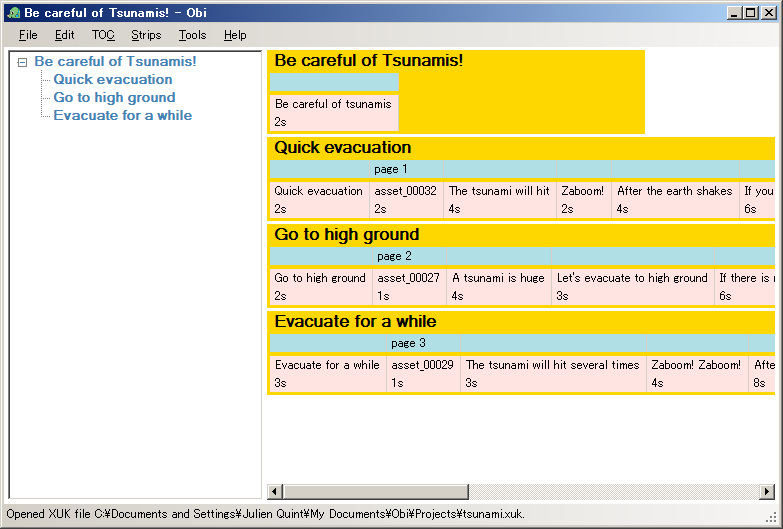
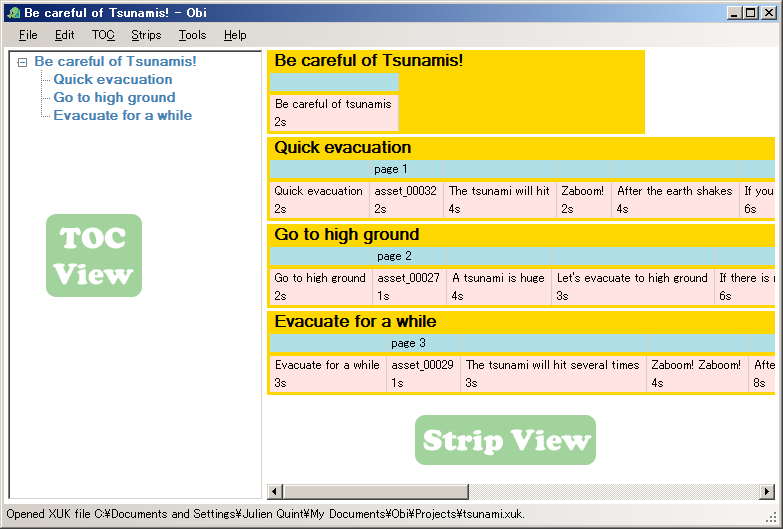
Updated manual and screenshots

Changed region(s): [[0.5211, 0.7864, 0.7663, 0.8771], [0.0613, 0.3932, 0.1839, 0.5747]]

diff --git a/Obi/Obi/help_en.html b/Obi/Obi/help_en.html
@@ -31,6 +31,8 @@
       <img style="width:128px;height:128px" alt="" src="../../images/obird256.png"/>
 </h1>
     
+<p>This is the manual for Obi v0.5 (18th August 2005.)</p>
+
 <h2 id="toc">Obi Manual - Table of Contents</h2>
 <ul class="toc">
 <li><a href="#getstart">Getting started</a>
@@ -73,15 +75,15 @@
   <!-- <h3>What is Obi?</h3> -->
      
   <h3>Obi Online - Community Help and Support</h3>
-  <p>For further help and support on using Obi, please visit <a href="http://urakawa.sourceforge.net/obi">Obi online</a>.</p>
+  <p>For further help and support on using Obi, please visit <a href="http://urakawa.sourceforge.net/obi">Obi online</a> and the <a href="http://urakawa.sourceforge.net">Urakawa project</a> web site.</p>
 
 <h2 id="getstart">Getting Started</h2>
   <p>This section of the Obi manual contains a quicktrack introduction on how to use Obi. A more detailed description of Obi features and functions is available in the <a href="#ctrls">details section</a>.</p>
   
   <h3 id="ovw_main">Main Window Overview</h3>
     <p>
-      The main window of Obi (which is the one that opens when you start Obi) contains two parallell views of the project; the <acronym title="Table of Contents">TOC</acronym> View at the left part of the main window, and the Strip View at the right part of the main window.
-      <br/>Before we start our project, lets try to understand what these views have in common, and where they differ.
+    The main window of Obi (which is the one that opens when you start Obi) contains two parallel views of the project; the <acronym title="Table of Contents">TOC</acronym> View on the left side of the main window, and the Strip View on the right side of the main window.
+      <br/>Before we start our project, let's try to understand what these views have in common, and where they differ.
       <br/><br/>    
     </p>
     <p><img src="../../images/manual_mainwindow.png" alt="the main window, with the TOC tree view at the left, and the strip view at the right" /></p>
@@ -89,7 +91,7 @@
     <h4 id="ovw_toc">The TOC View</h4>
     <p>The TOC View can be understood as a Table of Contents for the project being recorded.</p>
     <p>Using the TOC View you can navigate in the major structural elements of the project. Typically, this means that you move your current position to a certain section (or chapter if you will) of the DAISY <a href='#gls_dtb'>DTB</a> being recorded.</p>
-    <p>The TOC View is a tree, which means that a section (a node in the tree) can have children. In DTB terminology, this feature is used to describe that a certain section is a subsection (or a child) of another section.</p> 
+    <p>The TOC View is a tree, which means that a section (a node in the tree) can have children. In DTB terminology, this feature is used to describe that a certain section is a sub-section (or a child) of another section.</p> 
     <p>The TOC View also allows section editing, such as adding and removing sections.</p>
     
     <h4 id="ovw_strip">The Strip View</h4>
@@ -109,7 +111,7 @@
   <h3 id="ovw_new">Create a New Project</h3>
   <p>Select New Project from the File Menu.</p>
   <p>A dialog will appear that asks you to set the title of the project, 
-  and where on your computers harddrive to store project data.  
+  and where on your computer's hard drive to store project data.  
   </p>
   <p><img src="../../images/manual_newproject.png" alt="the new project dialog" /></p>
   
@@ -163,6 +165,11 @@
       <div class="hd">Obird suggestion</div>   
        <p>Saving your project at regular intervals during a long recording session is a good idea!</p>
     </div>
+    <p><strong>Note:</strong> the <code>save project as</code> command makes
+    a new copy of your project and audio files. When you select this command,
+    the project in its current state is saved in a different location and/or
+    under a different name, but you are still editing the same project. You
+    may think of this as a backup command.</p>
 
   
   <!-- <h3>Please enjoy the DAISY/NISO DTB</h3> 
@@ -180,25 +187,25 @@
     <dt>Add sub-section</dt>
     <dd>Adds a new section as a child of the section that is currently selected.</dd>
     <dt>Cut section</dt>
-    <dd>Cuts the currently selected section and puts it in the clipboard</dd>
+    <dd>Cuts the currently selected section and puts it in the clipboard.</dd>
     <dt>Copy section</dt>
     <dd>Copies the currently selected section and puts the copy in the clipboard</dd>
     <dt>Paste section</dt>
     <dd>Pastes a section currently in the clipboard, following the section that is currently selected.</dd>
     <dt>Delete section</dt>
-    <dd>Deletes the currently selected section</dd>
+    <dd>Deletes the currently selected section.</dd>
     <dt>Rename section</dt>
     <dd>Enables renaming of the currently selected section. After invoking rename, type the new name.</dd>
     <dt>Move section up/down</dt>
     <dd>Moves the currently selected section up or down in relation to its sibling sections. This feature is used to <em>reorder</em> the main structural units (chapters) of the DTB.</dd>
     <dt>Move section in/out</dt>
-    <dd>Changes the depth of the currently selected section. "Move in" effectively means "make subsection".</dd>
+    <dd>Changes the depth of the currently selected section. "Move in" effectively means "make sub-section".</dd>
     </dl>
     
     <h4>Other functions in TOC View</h4>
     <dl>
     <dt>Show in Strip View</dt>    
-    <dd>Moves the cursor (and focus) to the strip in the strip view that corresponds to the currently selected section in the TOC View</dd>
+    <dd>Moves the cursor (and focus) to the strip in the strip view that corresponds to the currently selected section in the TOC View.</dd>
     </dl>
     
     <h3 id="ctrl_stripview">Main Window - Strip View</h3>
@@ -209,7 +216,7 @@
     <dt>Rename strip</dt>
     <dd>Enables renaming of the currently selected strip. After invoking rename, type the new name.</dd>
     <dt>Delete strip</dt>
-    <dd>Deletes the currently selected strip</dd>
+    <dd>Deletes the currently selected strip.</dd>
     <dt>Move strip up/down</dt>
     <dd>Moves the currently selected strip up or down in relation to its sibling strips. This feature is used to <em>reorder</em> the main structural units (chapters) of the DTB.</dd>
     </dl>
@@ -217,19 +224,19 @@
     <h4 id="ctrl_blockediting">Block editing</h4>
     <dl>
     <dt>Edit audio block label</dt>
-    <dd>Edit the textual label of the currently selected audio block</dd>
+    <dd>Edit the textual label of the currently selected audio block.</dd>
     <dt>Delete audio block</dt>
-    <dd>Delete the currently selected audio block</dd>
+    <dd>Delete the currently selected audio block.</dd>
     <dt>Split audio block</dt>
-    <dd>Opens the <a href='#ctrl_split'>split dialog</a></dd>
+    <dd>Opens the <a href='#ctrl_split'>split dialog</a>.</dd>
     <dt>Merge with next audio block</dt>
     <dd>Merges the currently selected audio block with the audio block that follows it. The result is that two audio blocks turns into one.</dd>
     <dt>Move audio block forward/backward</dt>
     <dd>Moves the currently selected audio block in relation to its sibling blocks. This will reorder the sequence of audio blocks within a strip.</dd>
     <dt>Cut audio block</dt>
-    <dd>Cuts the currently selected audio block and puts it in the clipboard</dd>
+    <dd>Cuts the currently selected audio block and puts it in the clipboard.</dd>
     <dt>Copy audio block</dt>
-    <dd>Copies the currently selected audio block and puts the copy in the clipboard</dd>
+    <dd>Copies the currently selected audio block and puts the copy in the clipboard.</dd>
     <dt>Paste audio block</dt>
     <dd>Pastes an audio block currently in the clipboard, following the audio block that is currently selected.</dd>
     </dl>
@@ -239,29 +246,36 @@
     <dt>Record audio</dt>
     <dd>Opens the <a href='#ctrl_record'>recording dialog</a></dd>
     <dt>Import audio</dt>
-    <dd>Opens the import audio dialog</dd>
+    <dd>Opens the import audio dialog.</dd>
     <dt>Play audio block</dt>
-    <dd>Opens the play dialog, and plays the currently selected audio block</dd>
+    <dd>Opens the play dialog, and plays the currently selected audio block.</dd>
     <dt>Show in TOC View</dt>
-    <dd>Moves the cursor (and focus) to the section in the TOC View that corresponds to the currently selected strip in the Strip View</dd>
+    <dd>Moves the cursor (and focus) to the section in the TOC View that corresponds to the currently selected strip in the Strip View.</dd>
+    <dt>Set page label</dt>
+    <dd>A page label usually indicates a page number that can be inserted just
+    like in a print book. This is useful to include if you record a book that
+    exists in print. The page label appears on top of the audio block which
+    is usually the audio counterpart to the label.</dd>
+    <dt>Remove page label</dt>
+    <dd>Removes page label that was previously set.</dd>
     </dl>
     
     <h3 id="ctrl_record">Record Dialog</h3>
     <p>As the record dialog opens, Obi is already listening to the input device.</p>
     <dl>
     <dt>Record</dt>
-    <dd>Start the recording</dd>
+    <dd>Start the recording.</dd>
     <dt>Stop</dt>
     <dd>Stop the recording and close the dialog.</dd>
     <dt>Phrase marker</dt>
-    <dd>Create a new Audio Block. This feature can be used during recording (i.e. without pressing stop)</dd>
+    <dd>Create a new Audio Block. This feature can be used during recording (<em>i.e.</em> without pressing stop.)</dd>
     </dl>
     
     <h3 id="ctrl_play">Play Dialog</h3>
     <p>When the play dialog opens, playback will start automatically.</p>
     <dl>
     <dt>pause/play</dt>
-    <dd>Pauses the playback, and rests at the current position. Pressing the same button again will resume playback</dd>
+    <dd>Pauses the playback, and rests at the current position. Pressing the same button again will resume playback.</dd>
     <dt>stop</dt>
     <dd>Stops playback and closes the play dialog.</dd>
     </dl>
@@ -276,28 +290,28 @@
     <dt>back</dt>
     <dd>Go back to the current split position, and play from that position</dd>
     <dt>play/pause</dt>
-    <dd>Play the entire audio block</dd>
+    <dd>Play the entire audio block.</dd>
     <dt>fast rewind</dt>
-    <dd>Move backward in time a large step</dd>
+    <dd>Move backward in time a large step.</dd>
     <dt>fast forward</dt>
-    <dd>Move forward in time a large step</dd>
+    <dd>Move forward in time a large step.</dd>
     <dt>fine rewind</dt>
-    <dd>Move backward in time a small step</dd>
+    <dd>Move backward in time a small step.</dd>
     <dt>fine forward</dt>
-    <dd>Move forward in time a small step</dd>
+    <dd>Move forward in time a small step.</dd>
     <dt>current time</dt>
-    <dd>Displays the current time position in the audio block</dd>
+    <dd>Displays the current time position in the audio block.</dd>
     <dt>split time</dt>
-    <dd>Displays the split time position in the audio block</dd>
+    <dd>Displays the split time position in the audio block.</dd>
     <dt>split</dt>
-    <dd>Performs the split operation and exits the dialog</dd>
+    <dd>Performs the split operation and exits the dialog.</dd>
     <dt>stop</dt>
-    <dd>Cancels the split operation and exists the dialog</dd>
+    <dd>Cancels the split operation and exists the dialog.</dd>
     </dl>
 
   <h3 id="ctrl_metadata">Metadata Dialog</h3>
   <p>The metadata dialog allows editing of bibliographic metadata to be associated with the project.<br/> 
-  It is strongly suggested that you take the time to fill these fields in properly.</p>
+  It is strongly suggested that you take the time to fill in these fields in properly.</p>
   
   <h4>Metadata Dialog fields</h4>  
   <dl>
@@ -330,9 +344,9 @@
   <h4>Audio Preferences fields</h4>
   <dl>
   <dt>Input device name</dt>
-  <dd>Set the audio device to use for recording. This is the same as selecting a <em>soundcard input port</em></dd>
+  <dd>Set the audio device to use for recording. This is the same as selecting a <em>soundcard input port</em>.</dd>
   <dt>Output device name</dt>
-  <dd>Set the audio device to use for playback. This is the same as selecting a <em>soundcard output port</em></dd>
+  <dd>Set the audio device to use for playback. This is the same as selecting a <em>soundcard output port</em>.</dd>
   <dt>Default sample rate</dt>
   <dd>Select the sample rate to use for recording. This field defaults to <code>44100</code>, and normally, you can leave it at that. Under some circumstances (such as a very large book being recorded) you may want to change this setting to <code>22050</code>.</dd>
   <dt>Default channels</dt>
@@ -364,11 +378,11 @@
   <h4>User profile fields</h4>
   <dl>
   <dt>Full name</dt>
-  <dd>Name of user</dd>
+  <dd>Name of user.</dd>
   <dt>Organisation</dt>
-  <dd>Organisation of the user</dd>
+  <dd>Organisation of the user.</dd>
   <dt>Language</dt>
-  <dd>The language of the user (which is not necessarily the same as the <a href='#ctrl_metadata'>language of the DTB being recorded</a>!).</dd>
+  <dd>The language of the user (which is not necessarily the same as the <a href='#ctrl_metadata'>language of the DTB being recorded</a>!)</dd>
   </dl>
   <p><img src="../../images/manual_userprofile.png" alt="screenshot of the user profile dialog"/></p>
 
@@ -449,9 +463,9 @@ Project modification invocations by default use the CTRL modkey
 (unless there is a preferred Windows standard heritage key, for example F2 = rename, DEL = delete).
 View modifications (that change the GUI but not the project itself) by default use the ALT modkey
 -->
-<!-- JQ changed to pre so that we have a sort-of table layout (spacing is wrong though) and updated some shortcuts -->
-<!-- JQ would like that this table is always kept up-to-date when changes to shortcut keys/menu items are made -->
-<table width="75%">
+<p><strong>Note:</strong> these shortcuts may change in subsequent versions of
+Obi.</p>
+<table style="border-collapse:collapse" width="75%">
   <tr class="hd"><td colspan="2">Obi Main Menu</td></tr>
   <tr><td>File Menu</td>			<td><kbd>ALT,F</kbd></td></tr>
   <tr><td>Edit Menu</td>			<td><kbd>ALT,E</kbd></td></tr>
@@ -465,11 +479,12 @@ View modifications (that change the GUI but not the project itself) by default u
   <tr><td>Open Project</td>			<td><kbd>CTRL+O</kbd></td></tr>
   <tr><td>Save Project</td>			<td><kbd>CTRL+S</kbd></td></tr>
   <tr><td>Save Project as</td>			<td><kbd>CTRL+SHIFT+S</kbd></td></tr>
+  <tr><td>Discard Changes</td>  <td><kbd>CTRL+D</kbd></td></tr>
   <tr><td>Close Project</td>			<td><kbd>CTRL+W</kbd></td></tr>
   <tr><td>Exit</td>				<td><kbd>ALT+F4</kbd></td></tr>
   
   <tr class="hd"><td colspan="2">Dialogs and Windows</td></tr>
-  <tr><td>Open Record Dialog</td>		<td><kbd>ALT+R</kbd></td></tr> 
+  <tr><td>Open Record Dialog</td>		<td><kbd>CTRL+R</kbd></td></tr> 
   <tr><td>Open Help</td>			<td><kbd>F1</kbd></td></tr>
   <tr><td>Open Metadata dialog</td>		<td><kbd>ALT+M</kbd></td></tr>
   <tr><td>Open Audio Preferences</td>		<td><kbd>ALT+A</kbd></td></tr>   
@@ -490,7 +505,10 @@ View modifications (that change the GUI but not the project itself) by default u
     
   <tr class="hd"><td colspan="2">Section Editing</td></tr>
   <tr><td>Add section</td>			<td><kbd>CTRL+A</kbd></td></tr>
-  <tr><td>Add subsection</td>			<td><kbd>CTRL+B</kbd></td></tr>
+  <tr><td>Add sub-section</td>			<td><kbd>CTRL+B</kbd></td></tr>
+  <tr><td>Cut section</td>			<td><kbd>CTRL+SHIFT+X</kbd></td></tr>
+  <tr><td>Copy section</td>			<td><kbd>CTRL+SHIFT+C</kbd></td></tr>
+  <tr><td>Paset section</td>			<td><kbd>CTRL+SHIFT+V</kbd></td></tr>
   <tr><td>Delete section</td>			<td><kbd>DEL</kbd></td></tr>
   <tr><td>Rename section</td>			<td><kbd>F2</kbd></td></tr>
   <tr><td>Move Section Up</td>			<td><kbd>CTRL+SHIFT+UP</kbd></td></tr> <!-- (otherwise this conflicts with blocks.) -->
@@ -501,30 +519,28 @@ View modifications (that change the GUI but not the project itself) by default u
   <tr class="hd"><td colspan="2">Strip Editing</td></tr>
   <tr><td>Add strip</td>			<td><kbd>CTRL+A</kbd></td></tr>
   <tr><td>Rename strip</td>			<td><kbd>SHIFT+F2</kbd></td></tr> <!-- (because of selection ambivalence in strips) -->
-  <tr><td>Delete strip</td>			<td><kbd>SHIFT+Del</kbd></td></tr>
-  <tr><td>Move strip up</td>			<td><kbd>CTRL+SHIFT+Up</kbd></td></tr>
-  <tr><td>Move strip down</td>			<td><kbd>CTRL+SHIFT+Down</kbd></td></tr>
+  <tr><td>Delete strip</td>			<td><kbd>SHIFT+DEL</kbd></td></tr>
+  <tr><td>Move strip up</td>			<td><kbd>CTRL+SHIFT+UP</kbd></td></tr>
+  <tr><td>Move strip down</td>			<td><kbd>CTRL+SHIFT+DOWN</kbd></td></tr>
     
   <tr class="hd"><td colspan="2">Audio Editing</td></tr>
-  <tr><td>Play audio block</td>			<td><kbd>ALT+Space</kbd></td></tr> <!-- (should be space alone) -->
+  <tr><td>Import audio file</td>		<td><kbd>CTRL+I</kbd></td></tr>    
+  <tr><td>Edit audio block label</td>		<td><kbd>F2</kbd></td></tr>
   <tr><td>Cut audio block</td>			<td><kbd>CTRL+X</kbd></td></tr>
   <tr><td>Copy audio block</td>			<td><kbd>CTRL+C</kbd></td></tr>
+  <tr><td>Paset audio block</td>			<td><kbd>CTRL+V</kbd></td></tr>
   <tr><td>Split audio block</td>		<td><kbd>CTRL+P</kbd></td></tr>
-  <tr><td>Merge with next audio block</td>	<td><kbd>CTRL+M</kbd></td></tr>
   <tr><td>Delete audio block</td>		<td><kbd>DEL</kbd></td></tr>
-  <tr><td>Edit audio block label</td>		<td><kbd>F2</kbd></td></tr>
+  <tr><td>Merge with next audio block</td>	<td><kbd>CTRL+M</kbd></td></tr>
   <tr><td>Move audio block forward</td>		<td><kbd>CTRL+RIGHT</kbd></td></tr>
   <tr><td>Move audio block backward</td>	<td><kbd>CTRL+LEFT</kbd></td></tr>
-  <tr><td>Import audio file</td>		<td><kbd>CTRL+I</kbd></td></tr>    
-  
-</table>  
+  <tr><td>Play audio block</td>			<td><kbd>ALT+Space</kbd></td></tr> <!-- (should be space alone) -->
 
-<!--
-  Cut					CTRL+X
-  Copy 					CTRL+C
-  Paste					CTRL+V
-  Delete				Del
--->
+  <tr class="hd"><td colspan="2">Page Labels</td></tr>
+  <tr><td>Set page label</td>		<td><kbd>CTRL+F2</kbd></td></tr>
+  <tr><td>Remove page label</td>		<td><kbd>CTRL+DEL</kbd></td></tr>
+
+</table>  
 
   <p>
     <a href="http://validator.w3.org/check?uri=referer"><img

diff --git a/docs/obi.html b/docs/obi.html
@@ -194,6 +194,9 @@
       exported or played back in normal QA playing mode, but the data is
       still available while authoring.</li>
       <li>Translation to other languages than English.</li>
+      <li>Better color scheme, and more importantly, customizable color schemes
+      with defaults for user with low vision requiring high contrast. The font
+      sizes must be customizable as well to allow for large type.</li>
     </ul>
 
     <h3 id="roadmap">Roadmap</h3>
